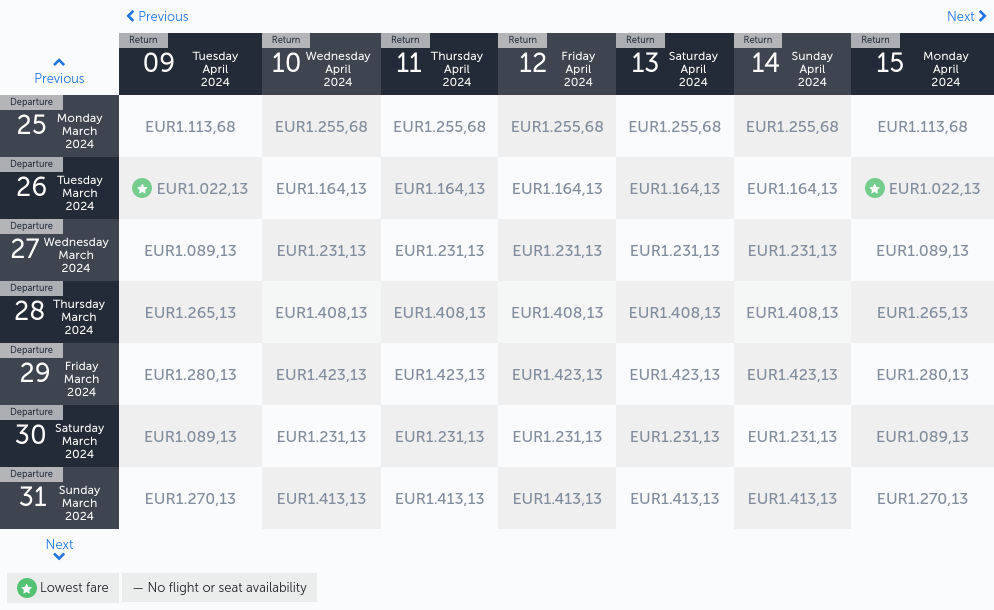
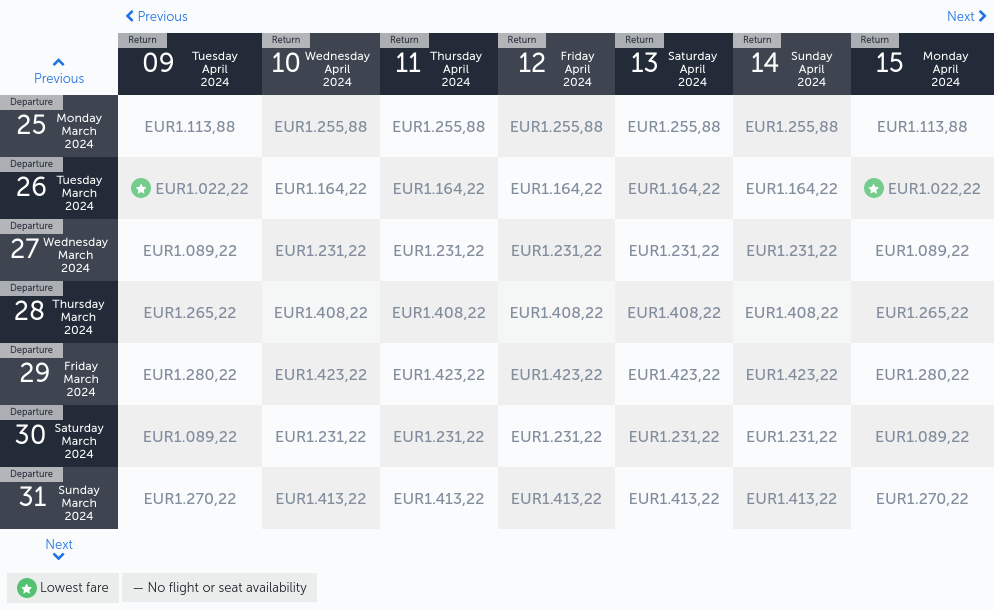
Latest scraping taiwan: Mon Jun 26 22:39:45 UTC 2023

diff --git a/scrapes/taiwan/turkish-airlines.md b/scrapes/taiwan/turkish-airlines.md
@@ -2,13 +2,13 @@
 | --- | --- | --- | --- | --- | --- | --- | --- |
 | Previous | Return<br><br>09 Tuesday April 2024 | Return<br><br>10 Wednesday April 2024 | Return<br><br>11 Thursday April 2024 | Return<br><br>12 Friday April 2024 | Return<br><br>13 Saturday April 2024 | Return<br><br>14 Sunday April 2024 | Return<br><br>15 Monday April 2024 |
 | --- | --- | --- | --- | --- | --- | --- | --- |
-| Departure<br><br>25 Monday March 2024 | 1.113,68 | 1.255,68 | 1.255,68 | 1.255,68 | 1.255,68 | 1.255,68 | 1.113,68 |
-| Departure<br><br>26 Tuesday March 2024 | 1.022,13 | 1.164,13 | 1.164,13 | 1.164,13 | 1.164,13 | 1.164,13 | 1.022,13 |
-| Departure<br><br>27 Wednesday March 2024 | 1.089,13 | 1.231,13 | 1.231,13 | 1.231,13 | 1.231,13 | 1.231,13 | 1.089,13 |
-| Departure<br><br>28 Thursday March 2024 | 1.265,13 | 1.408,13 | 1.408,13 | 1.408,13 | 1.408,13 | 1.408,13 | 1.265,13 |
-| Departure<br><br>29 Friday March 2024 | 1.280,13 | 1.423,13 | 1.423,13 | 1.423,13 | 1.423,13 | 1.423,13 | 1.280,13 |
-| Departure<br><br>30 Saturday March 2024 | 1.089,13 | 1.231,13 | 1.231,13 | 1.231,13 | 1.231,13 | 1.231,13 | 1.089,13 |
-| Departure<br><br>31 Sunday March 2024 | 1.270,13 | 1.413,13 | 1.413,13 | 1.413,13 | 1.413,13 | 1.413,13 | 1.270,13 |
+| Departure<br><br>25 Monday March 2024 | 1.113,88 | 1.255,88 | 1.255,88 | 1.255,88 | 1.255,88 | 1.255,88 | 1.113,88 |
+| Departure<br><br>26 Tuesday March 2024 | 1.022,22 | 1.164,22 | 1.164,22 | 1.164,22 | 1.164,22 | 1.164,22 | 1.022,22 |
+| Departure<br><br>27 Wednesday March 2024 | 1.089,22 | 1.231,22 | 1.231,22 | 1.231,22 | 1.231,22 | 1.231,22 | 1.089,22 |
+| Departure<br><br>28 Thursday March 2024 | 1.265,22 | 1.408,22 | 1.408,22 | 1.408,22 | 1.408,22 | 1.408,22 | 1.265,22 |
+| Departure<br><br>29 Friday March 2024 | 1.280,22 | 1.423,22 | 1.423,22 | 1.423,22 | 1.423,22 | 1.423,22 | 1.280,22 |
+| Departure<br><br>30 Saturday March 2024 | 1.089,22 | 1.231,22 | 1.231,22 | 1.231,22 | 1.231,22 | 1.231,22 | 1.089,22 |
+| Departure<br><br>31 Sunday March 2024 | 1.270,22 | 1.413,22 | 1.413,22 | 1.413,22 | 1.413,22 | 1.413,22 | 1.270,22 |
 | Next |
 | Lowest fare — No flight or seat availability |     |     |     |     |     |     |     |
 
